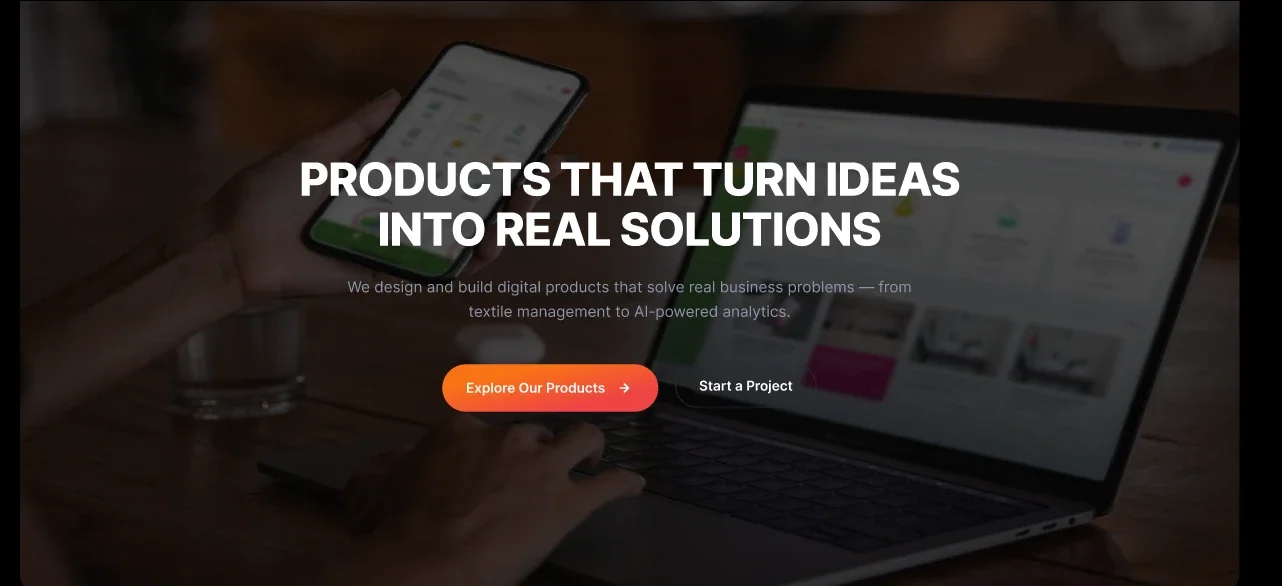
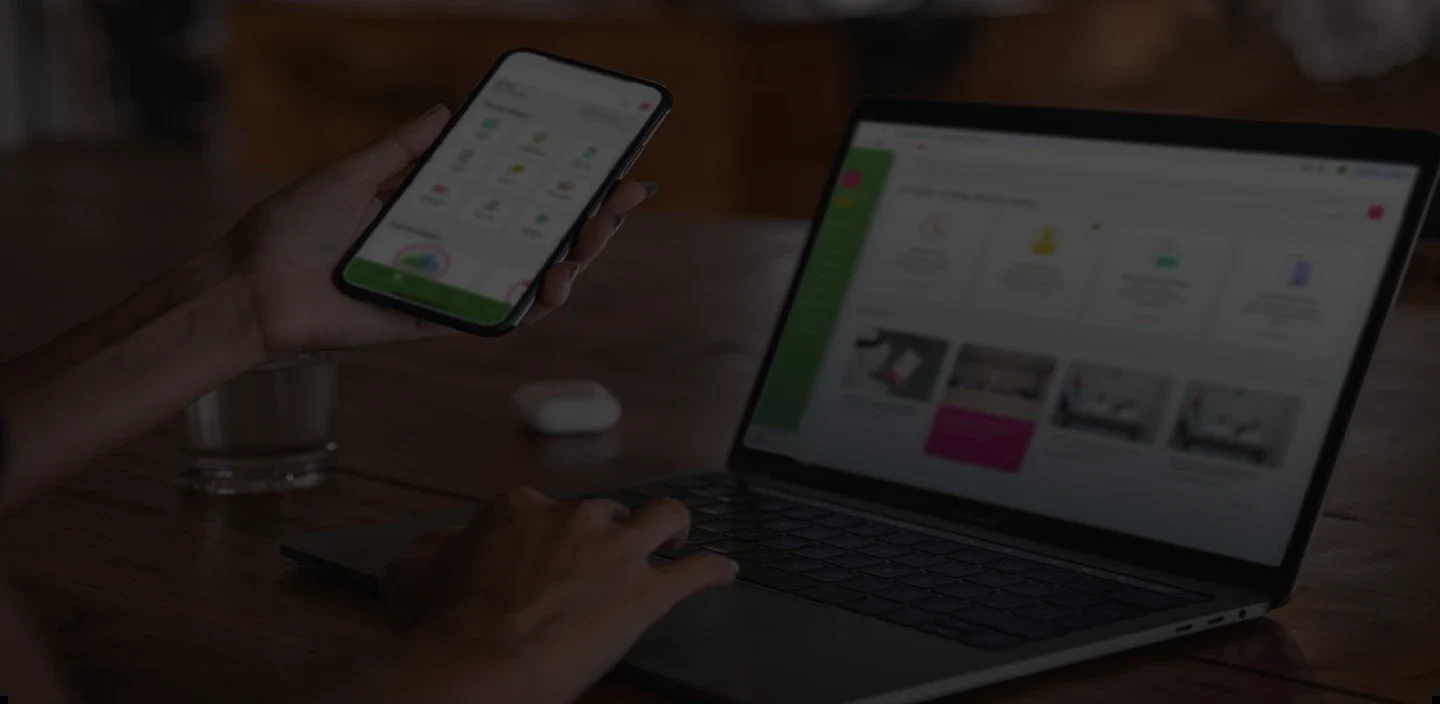
Use clean background photo for Products page hero
Replaces the earlier screenshot (which had its own heading/button text
baked in, requiring a blur workaround to avoid duplicate ghost text) with a
clean source photo. Drops the blur and lightens the overlay back down since
there's no baked text to hide anymore.

diff --git a/src/components/productsPage/ProductsHero.jsx b/src/components/productsPage/ProductsHero.jsx
@@ -4,22 +4,14 @@ import heroBg from "/assets/images/products/hero-bg.webp";
 // New starting point for the Products page, replacing the old section stack. Both CTAs
 // have no confirmed destination yet, so they're inert (href="#"), matching the pattern
 // used elsewhere on the site for placeholder buttons.
-//
-// hero-bg.webp is a screenshot with its own heading/button text baked in (the only
-// source available) - blurred and heavily darkened so it reads as an ambient photo
-// behind the real, live heading below rather than showing as duplicate ghost text.
 export default function ProductsHero() {
   return (
     <section
       aria-labelledby="products-hero-heading"
       className="relative flex min-h-[85vh] items-center justify-center overflow-hidden bg-ink px-6 py-32 text-center font-manrope sm:px-12"
+      style={{ backgroundImage: `url(${heroBg})`, backgroundSize: "cover", backgroundPosition: "center" }}
     >
-      <div
-        aria-hidden="true"
-        className="absolute inset-0 scale-110 bg-cover bg-center blur-md"
-        style={{ backgroundImage: `url(${heroBg})` }}
-      />
-      <div aria-hidden="true" className="absolute inset-0 bg-black/80" />
+      <div aria-hidden="true" className="absolute inset-0 bg-black/55" />
 
       <div className="relative mx-auto max-w-3xl">
         <h1
